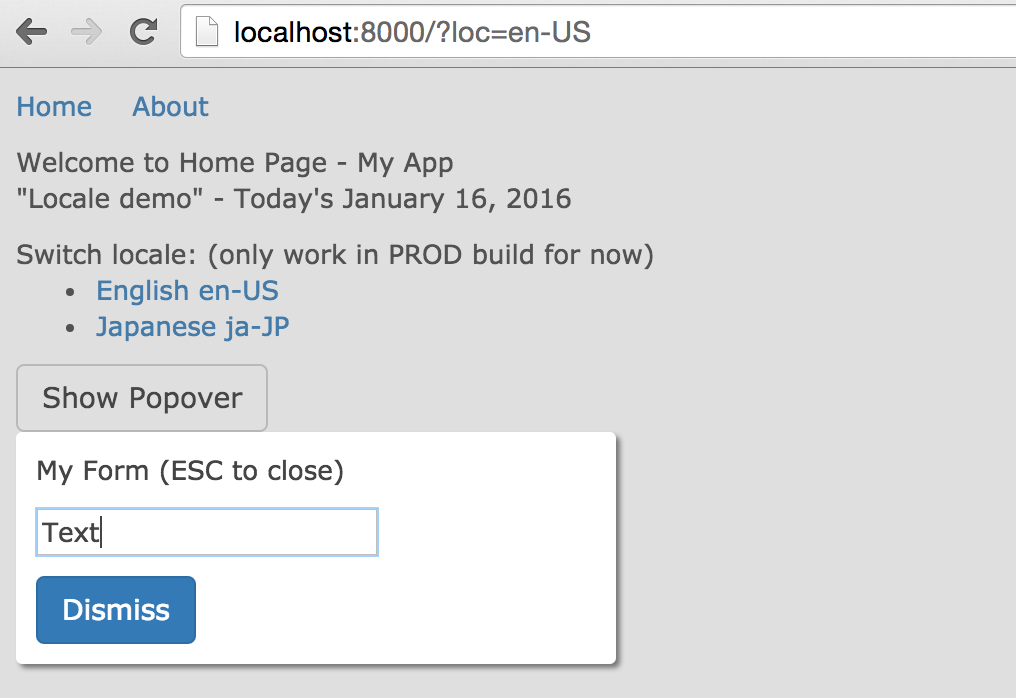
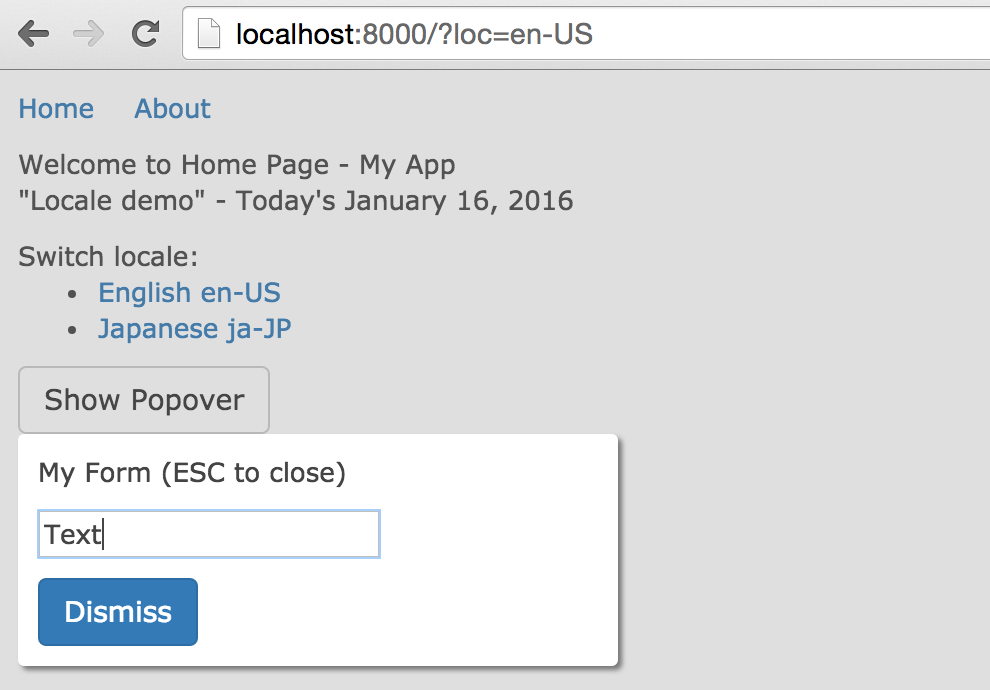
chore: updated docs/assets/demo.png

diff --git a/src/app/Home/Home.js b/src/app/Home/Home.js
@@ -20,7 +20,7 @@ class Home extends React.Component {
         </div>
         <p></p>
         <div>
-          Switch locale: (only work in PROD build for now)
+          Switch locale:
         </div>
         <ul>
           <li><a href="/?loc=en-US">English en-US</a></li>
